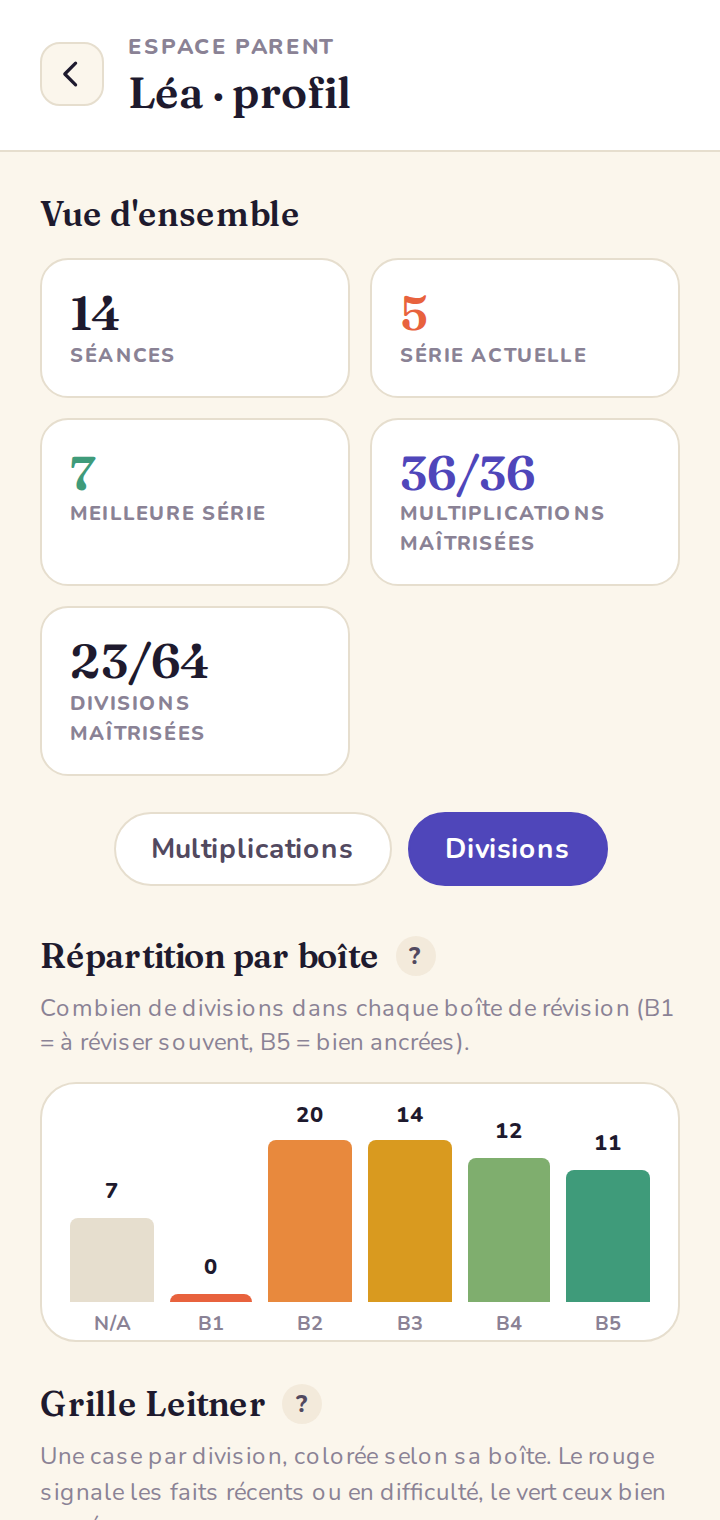
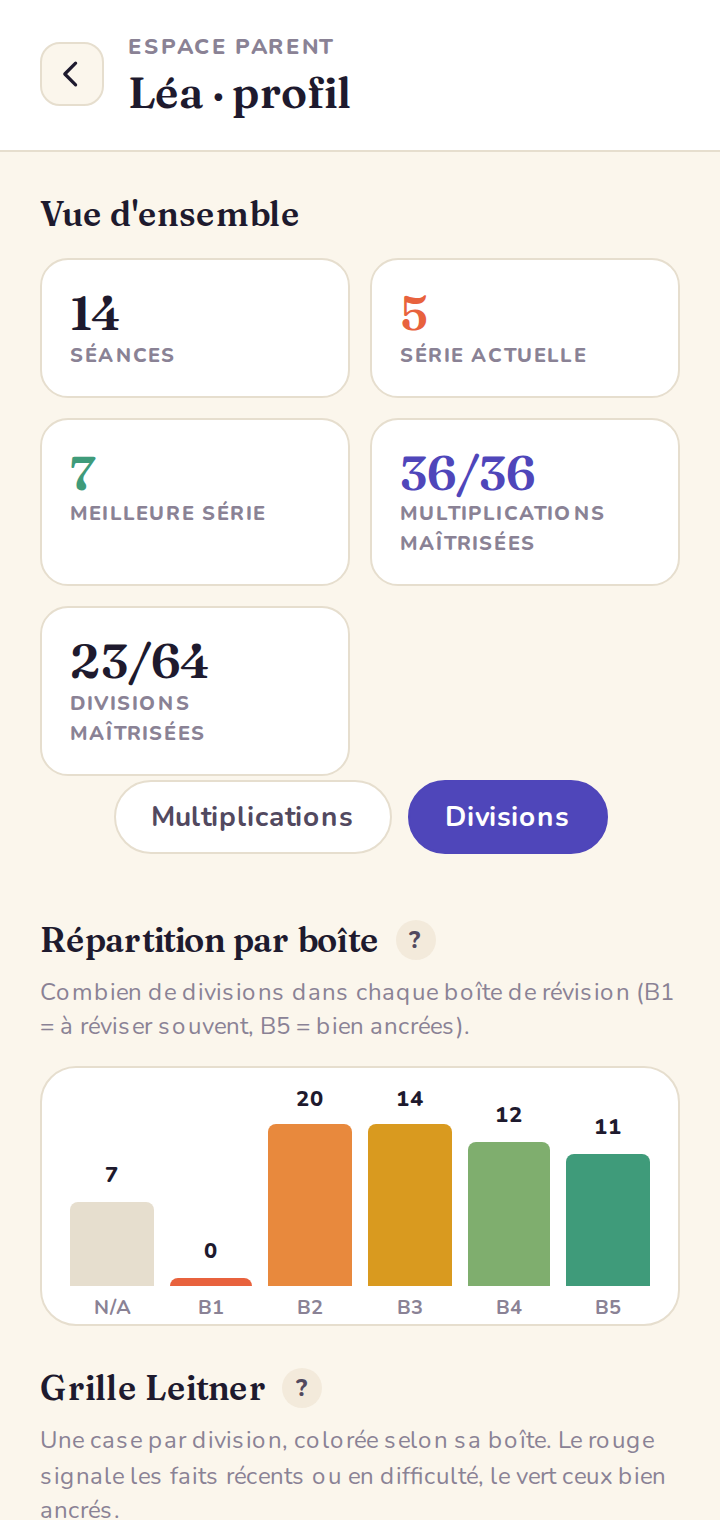
preview: claude-parent-dashboard-division @ 3175ded708ae540b9643395180d0553de9619bf6 f2abcea1a1fba69b99221907ac679d8dc247eb9f

diff --git a/previews/claude-parent-dashboard-division/styles.css b/previews/claude-parent-dashboard-division/styles.css
@@ -3057,36 +3057,6 @@ input, select, textarea {
   letter-spacing: 0.4px;
 }
 
-/* Sélecteur Multiplications / Divisions (gaté sur le déblocage niveau 2).
-   Mirroir du sélecteur côté enfant (ProgressScreen.css `.progress-tab`). */
-.parent-op-selector-section {
-  padding-bottom: 4px;
-}
-
-.parent-op-selector {
-  display: flex;
-  gap: 8px;
-  justify-content: center;
-}
-
-.parent-op-tab {
-  font-family: var(--sans);
-  font-size: 14px;
-  font-weight: 700;
-  padding: 8px 18px;
-  border-radius: 999px;
-  border: 1.5px solid var(--line);
-  background: var(--paper);
-  color: var(--ink-soft);
-  cursor: pointer;
-}
-
-.parent-op-tab.active {
-  background: var(--indigo);
-  border-color: var(--indigo);
-  color: #fff;
-}
-
 /* Marqueur ×/÷ devant chaque ligne de « Faits les plus difficiles » : permet
    d'identifier l'opération dans la liste unifiée mult+div. */
 .parent-hard-fact-kind {

diff --git a/previews/claude-parent-dashboard-division/src/lib/hardestFacts.js b/previews/claude-parent-dashboard-division/src/lib/hardestFacts.js
@@ -1,0 +1,3 @@
+import{getFactKey as m}from"./facts.js";import{getDivisionFactKey as b}from"./divisionFacts.js";function u(t,e){return t.filter(o=>!o.correct&&(e===null||o.date>=e)).length}function v(t,e,o){const n=t.sessionHistory,i=n.length>e?n[n.length-e].date:null,s=t.facts.filter(r=>r.introduced).map(r=>({kind:"mult",key:m(r.a,r.b),box:r.box,errorCount:u(r.history,i),a:r.a,b:r.b,product:r.product})),c=(t.divisionFacts??[]).filter(r=>r.introduced).map(r=>({kind:"div",key:b(r.dividend,r.divisor),box:r.box,errorCount:u(r.history,i),dividend:r.dividend,divisor:r.divisor,quotient:r.quotient}));return[...s,...c].sort((r,d)=>d.errorCount-r.errorCount||r.box-d.box).slice(0,o).filter(r=>r.errorCount>0)}export{v as getHardestFacts};
+
+//# sourceMappingURL=hardestFacts.js.map

diff --git a/previews/claude-parent-dashboard-division/sw.js b/previews/claude-parent-dashboard-division/sw.js
@@ -26,7 +26,7 @@
 // Les marqueurs de version, de base path et de liste d'assets sont
 // substitués par scripts/build.mjs.
 
-const CACHE = 'multiplix-' + "20260605162732"
+const CACHE = 'multiplix-' + "20260605163621"
 const BASE = "/multiplix/previews/claude-parent-dashboard-division/"
 const ASSETS = [
   "/multiplix/previews/claude-parent-dashboard-division/favicon.svg",
@@ -104,6 +104,7 @@ const ASSETS = [
   "/multiplix/previews/claude-parent-dashboard-division/src/lib/divisionStrategies.js",
   "/multiplix/previews/claude-parent-dashboard-division/src/lib/facts.js",
   "/multiplix/previews/claude-parent-dashboard-division/src/lib/feedback.js",
+  "/multiplix/previews/claude-parent-dashboard-division/src/lib/hardestFacts.js",
   "/multiplix/previews/claude-parent-dashboard-division/src/lib/install.js",
   "/multiplix/previews/claude-parent-dashboard-division/src/lib/leitner.js",
   "/multiplix/previews/claude-parent-dashboard-division/src/lib/micPreflight.js",

diff --git a/previews/claude-parent-dashboard-division/guide/index.html b/previews/claude-parent-dashboard-division/guide/index.html
@@ -463,7 +463,7 @@
           </figure>
 
           <figure class="shot">
-            <img src="screenshots/13b-parent-dashboard-division.png?v=b902fcdf" alt="Tableau de bord parent une fois la division débloquée : carte « Divisions maîtrisées », sélecteur ×/÷ sur l'histogramme et la grille, liste unifiée des faits les plus difficiles avec marqueur par opération." width="360" height="760" loading="lazy" />
+            <img src="screenshots/13b-parent-dashboard-division.png?v=1866d08d" alt="Tableau de bord parent une fois la division débloquée : carte « Divisions maîtrisées », sélecteur ×/÷ sur l'histogramme et la grille, liste unifiée des faits les plus difficiles avec marqueur par opération." width="360" height="760" loading="lazy" />
             <figcaption>Tableau de bord parent une fois la division débloquée : carte « Divisions maîtrisées », sélecteur ×/÷ sur l'histogramme et la grille, liste unifiée des faits les plus difficiles avec marqueur par opération.</figcaption>
           </figure>
 

diff --git a/previews/claude-parent-dashboard-division/src/components/LeitnerGrid.js b/previews/claude-parent-dashboard-division/src/components/LeitnerGrid.js
@@ -1,3 +1,3 @@
-import{jsx as t,jsxs as o}from"preact/jsx-runtime";import{useState as c,Fragment as m}from"react";import p from"./Modal.js";const s=[2,3,4,5,6,7,8,9];function g(l){return l.introduced?`box-${l.box}`:"box-0"}function u({operator:l,cellFor:d}){const[e,i]=c(null);return o("div",{className:"progress-grid-container",children:[o("div",{className:"progress-grid",children:[t("div",{className:"progress-grid-header progress-grid-corner",children:l}),s.map(r=>t("div",{className:"progress-grid-header",children:r},`col-${r}`)),s.map(r=>o(m,{children:[t("div",{className:"progress-grid-header",children:r}),s.map(n=>{const a=d(r,n);return t("button",{className:`progress-grid-cell ${g(a)} ${a.diagonal?"diagonal":""}`,onClick:()=>a.introduced&&i(a),"aria-label":a.ariaLabel},`${r}-${n}`)})]},r))]}),e&&o(p,{onClose:()=>i(null),className:"fact-detail",children:[t("h3",{className:"fact-detail-title",children:e.modal.title}),o("p",{className:"fact-detail-line",children:["Niveau :"," ",e.box===1?"En apprentissage":e.box===5?"Ma\xEEtris\xE9 !":`Bo\xEEte ${e.box}/5`]}),t("p",{className:"fact-detail-line",children:e.modal.totalAttempts>0?`${e.modal.correctCount}/${e.modal.totalAttempts} bonnes r\xE9ponses`:"Pas encore pratiqu\xE9"}),t("button",{className:"modal-close-btn",onClick:()=>i(null),children:"Fermer"})]})]})}export{u as default};
+import{jsx as r,jsxs as l}from"preact/jsx-runtime";import{useState as c,Fragment as m}from"react";import{boxLevelLabel as p}from"../lib/leitner.js";import g from"./Modal.js";const s=[2,3,4,5,6,7,8,9];function u(o){return o.introduced?`box-${o.box}`:"box-0"}function b({operator:o,cellFor:d}){const[t,i]=c(null);return l("div",{className:"progress-grid-container",children:[l("div",{className:"progress-grid",children:[r("div",{className:"progress-grid-header progress-grid-corner",children:o}),s.map(e=>r("div",{className:"progress-grid-header",children:e},`col-${e}`)),s.map(e=>l(m,{children:[r("div",{className:"progress-grid-header",children:e}),s.map(n=>{const a=d(e,n);return r("button",{className:`progress-grid-cell ${u(a)} ${a.diagonal?"diagonal":""}`,onClick:()=>a.introduced&&i(a),"aria-label":a.ariaLabel},`${e}-${n}`)})]},e))]}),t&&l(g,{onClose:()=>i(null),className:"fact-detail",children:[r("h3",{className:"fact-detail-title",children:t.modal.title}),l("p",{className:"fact-detail-line",children:["Niveau : ",p(t.box)]}),r("p",{className:"fact-detail-line",children:t.modal.totalAttempts>0?`${t.modal.correctCount}/${t.modal.totalAttempts} bonnes r\xE9ponses`:"Pas encore pratiqu\xE9"}),r("button",{className:"modal-close-btn",onClick:()=>i(null),children:"Fermer"})]})]})}export{b as default};
 
 //# sourceMappingURL=LeitnerGrid.js.map

diff --git a/previews/claude-parent-dashboard-division/src/components/MysteryGrid.js b/previews/claude-parent-dashboard-division/src/components/MysteryGrid.js
@@ -1,3 +1,3 @@
-import{jsx as e,jsxs as o}from"preact/jsx-runtime";import{useState as u}from"react";import b from"./DotGrid.js";const i=[2,3,4,5,6,7,8,9],v="/multiplix/previews/claude-parent-dashboard-division/";function p({theme:n,cellFor:y}){const[l,a]=u(null);return o("div",{className:"mystery-image-container",children:[e("div",{className:"mystery-image",children:e("div",{className:"mystery-cells",children:i.map((r,m)=>i.map((s,d)=>{const t=y(r,s),c=t.level>0?{backgroundImage:`url(${v}mystery/${n}/level-${t.level}.png)`,backgroundSize:"800% 800%",backgroundPosition:`${d/7*100}% ${m/7*100}%`}:void 0;return e("button",{className:`mystery-cell mystery-level-${t.level}`,style:c,onClick:()=>t.introduced&&a(t),"aria-label":t.ariaLabel},`${r}-${s}`)}))})}),l&&e("div",{className:"mystery-detail-overlay",onClick:()=>a(null),children:o("div",{className:"mystery-detail-card",onClick:r=>r.stopPropagation(),children:[e("h3",{children:l.detailHeading}),e(b,{a:l.gridA,b:l.gridB,animated:!1,size:"small"}),e("p",{className:"mystery-detail-box",children:l.box===5?"Ma\xEEtris\xE9 !":l.box===1?"En apprentissage":`Bo\xEEte ${l.box}/5`}),e("button",{className:"mystery-detail-close",onClick:()=>a(null),children:"Fermer"})]})})]})}export{p as default};
+import{jsx as e,jsxs as o}from"preact/jsx-runtime";import{useState as u}from"react";import{boxLevelLabel as b}from"../lib/leitner.js";import v from"./DotGrid.js";const i=[2,3,4,5,6,7,8,9],p="/multiplix/previews/claude-parent-dashboard-division/";function g({theme:n,cellFor:m}){const[t,a]=u(null);return o("div",{className:"mystery-image-container",children:[e("div",{className:"mystery-image",children:e("div",{className:"mystery-cells",children:i.map((r,y)=>i.map((s,d)=>{const l=m(r,s),c=l.level>0?{backgroundImage:`url(${p}mystery/${n}/level-${l.level}.png)`,backgroundSize:"800% 800%",backgroundPosition:`${d/7*100}% ${y/7*100}%`}:void 0;return e("button",{className:`mystery-cell mystery-level-${l.level}`,style:c,onClick:()=>l.introduced&&a(l),"aria-label":l.ariaLabel},`${r}-${s}`)}))})}),t&&e("div",{className:"mystery-detail-overlay",onClick:()=>a(null),children:o("div",{className:"mystery-detail-card",onClick:r=>r.stopPropagation(),children:[e("h3",{children:t.detailHeading}),e(v,{a:t.gridA,b:t.gridB,animated:!1,size:"small"}),e("p",{className:"mystery-detail-box",children:b(t.box)}),e("button",{className:"mystery-detail-close",onClick:()=>a(null),children:"Fermer"})]})})]})}export{g as default};
 
 //# sourceMappingURL=MysteryGrid.js.map

diff --git a/previews/claude-parent-dashboard-division/src/lib/feedback.js b/previews/claude-parent-dashboard-division/src/lib/feedback.js
@@ -1,3 +1,3 @@
-const r="https://cseyzitvqvyuabmenntb.supabase.co",a="sb_publishable_WKCgKA1DIyj8o1eG4_Pciw_ZoujAiqj",l=!!(r&&a);function u(t,e=!1){const n={app_version:"20260605162732",user_agent:navigator.userAgent,locale:navigator.language,viewport:{w:window.innerWidth,h:window.innerHeight}};if(t){const o=t.facts.filter(s=>s.box>=4).length,i=new Date(t.startDate).getTime(),c=Math.max(0,Math.floor((Date.now()-i)/864e5));if(n.stats={total_sessions:t.totalSessions,facts_mastered:o,facts_total:t.facts.length,current_streak:t.currentStreak,days_since_start:c},e){const{name:s,...m}=t;n.profile_snapshot=m}}return n}async function _(t){if(!l)throw new Error("Feedback d\xE9sactiv\xE9 (configuration manquante)");const e=await fetch(`${r}/rest/v1/feedback`,{method:"POST",headers:{apikey:a,Authorization:`Bearer ${a}`,"Content-Type":"application/json",Prefer:"return=minimal"},body:JSON.stringify({message:t.message,email:t.email&&t.email.trim()?t.email.trim():null,context:t.context})});if(!e.ok){const n=await e.text().catch(()=>"");throw new Error(n||`HTTP ${e.status}`)}}export{u as buildContext,l as feedbackEnabled,_ as submitFeedback};
+const r="https://cseyzitvqvyuabmenntb.supabase.co",a="sb_publishable_WKCgKA1DIyj8o1eG4_Pciw_ZoujAiqj",l=!!(r&&a);function u(t,e=!1){const n={app_version:"20260605163621",user_agent:navigator.userAgent,locale:navigator.language,viewport:{w:window.innerWidth,h:window.innerHeight}};if(t){const o=t.facts.filter(s=>s.box>=4).length,i=new Date(t.startDate).getTime(),c=Math.max(0,Math.floor((Date.now()-i)/864e5));if(n.stats={total_sessions:t.totalSessions,facts_mastered:o,facts_total:t.facts.length,current_streak:t.currentStreak,days_since_start:c},e){const{name:s,...m}=t;n.profile_snapshot=m}}return n}async function _(t){if(!l)throw new Error("Feedback d\xE9sactiv\xE9 (configuration manquante)");const e=await fetch(`${r}/rest/v1/feedback`,{method:"POST",headers:{apikey:a,Authorization:`Bearer ${a}`,"Content-Type":"application/json",Prefer:"return=minimal"},body:JSON.stringify({message:t.message,email:t.email&&t.email.trim()?t.email.trim():null,context:t.context})});if(!e.ok){const n=await e.text().catch(()=>"");throw new Error(n||`HTTP ${e.status}`)}}export{u as buildContext,l as feedbackEnabled,_ as submitFeedback};
 
 //# sourceMappingURL=feedback.js.map

diff --git a/previews/claude-parent-dashboard-division/src/lib/leitner.js b/previews/claude-parent-dashboard-division/src/lib/leitner.js
@@ -1,3 +1,3 @@
-import{BOX_INTERVALS as a,FAST_THRESHOLD_MS as c}from"../types.js";import{shuffle as u}from"./utils.js";function d(e,t){const n=new Date(e);return n.setDate(n.getDate()+t),n.toISOString().slice(0,10)}function x(e,t){const n=a[e];return d(t,n)}function g(e,t){return e.nextDue?e.nextDue<=t:!0}function h(e,t,n,r,o,l=c[o]){const b={date:r,correct:t,responseTimeMs:n,answeredWith:null},i=[...e.history,b].slice(-30);if(!t)return{...e,box:1,lastSeen:r,nextDue:x(1,r),history:i};if(n<l){const s=Math.min(e.box+1,5);return{...e,box:s,lastSeen:r,nextDue:x(s,r),history:i}}return{...e,lastSeen:r,nextDue:x(e.box,r),history:i}}const p=2;function B(e){const t=e.filter(n=>n.introduced);return t.length===0||e.length-t.length<=p?!0:t.every(n=>n.box>=2)}function S(e,t){return e===2||t===2?1:e===5||t===5?2:e===9||t===9?3:e===t?4:5}function T(e){return[...u(e.filter(t=>t.box===1)),...u(e.filter(t=>t.box===2||t.box===3)),...u(e.filter(t=>t.box===4||t.box===5))]}function v(e,t,n){return u(e.filter(r=>r.introduced&&!t(r))).sort((r,o)=>r.box-o.box||r.nextDue.localeCompare(o.nextDue)).slice(0,n)}export{d as addDays,x as computeNextDue,g as isDue,v as pickBonusReviewFacts,T as prioritizeByBoxLevel,h as processAnswer,B as shouldIntroduceNew,S as vanDeWalleStage};
+import{BOX_INTERVALS as a,FAST_THRESHOLD_MS as c}from"../types.js";import{shuffle as u}from"./utils.js";function p(e,t){const n=new Date(e);return n.setDate(n.getDate()+t),n.toISOString().slice(0,10)}function x(e,t){const n=a[e];return p(t,n)}function h(e,t){return e.nextDue?e.nextDue<=t:!0}function D(e,t,n,r,o,l=c[o]){const b={date:r,correct:t,responseTimeMs:n,answeredWith:null},i=[...e.history,b].slice(-30);if(!t)return{...e,box:1,lastSeen:r,nextDue:x(1,r),history:i};if(n<l){const s=Math.min(e.box+1,5);return{...e,box:s,lastSeen:r,nextDue:x(s,r),history:i}}return{...e,lastSeen:r,nextDue:x(e.box,r),history:i}}const d=2;function v(e){const t=e.filter(n=>n.introduced);return t.length===0||e.length-t.length<=d?!0:t.every(n=>n.box>=2)}const f=4;function L(e){return e.filter(t=>t.box>=f).length}function S(e){return e===5?"Ma\xEEtris\xE9 !":e===1?"En apprentissage":`Bo\xEEte ${e}/5`}function T(e,t){return e===2||t===2?1:e===5||t===5?2:e===9||t===9?3:e===t?4:5}function y(e){return[...u(e.filter(t=>t.box===1)),...u(e.filter(t=>t.box===2||t.box===3)),...u(e.filter(t=>t.box===4||t.box===5))]}function A(e,t,n){return u(e.filter(r=>r.introduced&&!t(r))).sort((r,o)=>r.box-o.box||r.nextDue.localeCompare(o.nextDue)).slice(0,n)}export{f as MASTERY_BOX,p as addDays,S as boxLevelLabel,x as computeNextDue,L as countMastered,h as isDue,A as pickBonusReviewFacts,y as prioritizeByBoxLevel,D as processAnswer,v as shouldIntroduceNew,T as vanDeWalleStage};
 
 //# sourceMappingURL=leitner.js.map

diff --git a/previews/claude-parent-dashboard-division/src/screens/ParentDashboard.js b/previews/claude-parent-dashboard-division/src/screens/ParentDashboard.js
@@ -1,3 +1,3 @@
-import{Fragment as se,jsx as e,jsxs as t}from"preact/jsx-runtime";import{useState as p,useMemo as u}from"react";import{getFactKey as G}from"../lib/facts.js";import{getDivisionFactKey as W}from"../lib/divisionFacts.js";import{isDivisionUnlocked as z}from"../lib/badges.js";import{getActiveStreak as J}from"../lib/streak.js";import{todayISO as K}from"../lib/utils.js";import j from"../components/ProgressGrid.js";import Q from"../components/DivisionProgressGrid.js";import X from"../components/BackChevron.js";import Z from"../components/FeedbackModal.js";import w from"../components/EvolutionChart.js";import ee from"../components/NotificationSettings.js";const g=10,ae=20;function te({profile:i,onBack:F,onExport:D,onImport:E,onResetProfile:$,onShowPrivacy:B,onShowChangelog:P}){const[y,x]=p(!1),[b,k]=p(""),[H,C]=p(!1),[L,f]=p(!1),m=u(()=>z(i),[i]),l=u(()=>i.divisionFacts??[],[i.divisionFacts]),[R,S]=p(m?"div":"mult"),r=m&&R==="div",A=async()=>{const a=window.location.origin+"/multiplix/previews/claude-parent-dashboard-division/";if(navigator.share){try{await navigator.share({title:"Multiplix",text:"Multiplix \u2014 pour apprendre les tables de multiplication.",url:a})}catch{}return}try{await navigator.clipboard.writeText(a),f(!0),setTimeout(()=>f(!1),2e3)}catch{}},{boxCounts:I,maxBoxCount:_,hardFacts:M}=u(()=>{const a=[0,0,0,0,0,0],n=r?l:i.facts;for(const s of n)s.introduced?a[s.box]++:a[0]++;const o=i.sessionHistory,h=o.length>g?o[o.length-g].date:null,c=s=>s.filter(v=>!v.correct&&(h===null||v.date>=h)).length,N=i.facts.filter(s=>s.introduced).map(s=>({kind:"mult",a:s.a,b:s.b,product:s.product,box:s.box,key:G(s.a,s.b),errorCount:c(s.history)})),V=l.filter(s=>s.introduced).map(s=>({kind:"div",dividend:s.dividend,divisor:s.divisor,quotient:s.quotient,box:s.box,key:W(s.dividend,s.divisor),errorCount:c(s.history)})),Y=[...N,...V].sort((s,v)=>v.errorCount-s.errorCount||s.box-v.box).slice(0,5).filter(s=>s.errorCount>0);return{boxCounts:a,maxBoxCount:Math.max(...a,1),hardFacts:Y}},[i.facts,l,i.sessionHistory,r]),T=u(()=>[...i.sessionHistory].reverse().slice(0,10),[i.sessionHistory]),d=u(()=>{const a=i.sessionHistory.slice(-ae);if(a.length<2)return null;const n=[],o=[];for(const c of a){const N=new Date(c.date).toLocaleDateString("fr-FR",{day:"numeric",month:"short"});n.push({date:N,value:Math.round(c.correctCount/c.questionsCount*100)}),o.push({date:N,value:c.averageTimeMs/1e3})}const h=Math.max(Math.ceil(Math.max(...o.map(c=>c.value))),4);return{accuracy:n,time:o,timeYMax:h}},[i.sessionHistory]),U=["var(--box-gray)","var(--box-red)","var(--box-orange)","var(--box-yellow)","var(--box-lightgreen)","var(--box-green)"],q=["N/A","B1","B2","B3","B4","B5"],O=()=>{b.trim()&&(E(b.trim()),x(!1),k(""))};return t("div",{className:"parent-dashboard",children:[t("div",{className:"parent-header",children:[e("button",{className:"parent-back-btn",onClick:F,"aria-label":"Retour",children:e(X,{})}),t("div",{className:"parent-header-titles",children:[e("div",{className:"parent-eyebrow",children:"Espace parent"}),t("div",{className:"parent-title",children:[i.name," \xB7 ","profil"]})]})]}),t("div",{className:"parent-section",children:[e("h3",{children:"Vue d'ensemble"}),t("div",{className:"parent-stats-grid",children:[t("div",{className:"parent-stat-card",children:[e("div",{className:"parent-stat-value",children:i.totalSessions}),e("div",{className:"parent-stat-label",children:"S\xE9ances"})]}),t("div",{className:"parent-stat-card",children:[e("div",{className:"parent-stat-value",children:J(i,K())}),e("div",{className:"parent-stat-label",children:"S\xE9rie actuelle"})]}),t("div",{className:"parent-stat-card",children:[e("div",{className:"parent-stat-value",children:i.longestStreak}),e("div",{className:"parent-stat-label",children:"Meilleure s\xE9rie"})]}),t("div",{className:"parent-stat-card",children:[t("div",{className:"parent-stat-value",children:[i.facts.filter(a=>a.box>=4).length,"/",i.facts.length]}),e("div",{className:"parent-stat-label",children:m?"Multiplications ma\xEEtris\xE9es":"Faits ma\xEEtris\xE9s"})]}),m&&t("div",{className:"parent-stat-card",children:[t("div",{className:"parent-stat-value",children:[l.filter(a=>a.box>=4).length,"/",l.length]}),e("div",{className:"parent-stat-label",children:"Divisions ma\xEEtris\xE9es"})]})]})]}),m&&e("div",{className:"parent-section parent-op-selector-section",children:t("div",{className:"parent-op-selector",role:"tablist","aria-label":"Op\xE9ration",children:[e("button",{role:"tab","aria-selected":!r,className:`parent-op-tab ${r?"":"active"}`,onClick:()=>S("mult"),children:"Multiplications"}),e("button",{role:"tab","aria-selected":r,className:`parent-op-tab ${r?"active":""}`,onClick:()=>S("div"),children:"Divisions"})]})}),t("div",{className:"parent-section",children:[t("h3",{children:["R\xE9partition par bo\xEEte",e("a",{className:"parent-section-help",href:"/multiplix/previews/claude-parent-dashboard-division/guide/#principes",target:"_blank",rel:"noopener noreferrer","aria-label":"En savoir plus sur le syst\xE8me de Leitner",children:"?"})]}),t("p",{className:"parent-section-subtitle",children:["Combien de ",r?"divisions":"multiplications"," dans chaque bo\xEEte de r\xE9vision (B1 = \xE0 r\xE9viser souvent, B5 = bien ancr\xE9es)."]}),e("div",{className:"parent-histogram",children:I.map((a,n)=>t("div",{className:"parent-histogram-bar",children:[e("div",{className:"parent-histogram-count",children:a}),e("div",{className:"parent-histogram-fill",style:{height:`${a/_*100}%`,background:U[n]}}),e("div",{className:"parent-histogram-label",children:q[n]})]},n))})]}),t("div",{className:"parent-section",children:[t("h3",{children:["Grille Leitner",e("a",{className:"parent-section-help",href:"/multiplix/previews/claude-parent-dashboard-division/guide/#principes",target:"_blank",rel:"noopener noreferrer","aria-label":"En savoir plus sur le syst\xE8me de Leitner",children:"?"})]}),t("p",{className:"parent-section-subtitle",children:["Une case par ",r?"division":"multiplication",", color\xE9e selon sa bo\xEEte. Le rouge signale les faits r\xE9cents ou en difficult\xE9, le vert ceux bien ancr\xE9s."]}),r?e(Q,{facts:l}):e(j,{facts:i.facts})]}),d&&t(se,{children:[t("div",{className:"parent-section",children:[e("h3",{children:"Taux de bonnes r\xE9ponses"}),e(w,{data:d.accuracy,yMin:0,yMax:100,yTicks:[0,25,50,75,100],formatY:a=>`${a}%`,color:"var(--primary)"})]}),t("div",{className:"parent-section",children:[e("h3",{children:"Temps de r\xE9ponse moyen"}),e(w,{data:d.time,yMin:0,yMax:d.timeYMax,yTicks:[0,d.timeYMax/2,d.timeYMax],formatY:a=>`${a.toFixed(1)}s`,color:"var(--sage)"})]})]}),M.length>0&&t("div",{className:"parent-section",children:[e("h3",{children:"Faits les plus difficiles"}),t("p",{className:"parent-section-subtitle",children:["Sur les ",g," derni\xE8res s\xE9ances."]}),e("div",{className:"parent-hard-facts",children:M.map(a=>t("div",{className:"parent-hard-fact",children:[e("span",{className:`parent-hard-fact-kind parent-hard-fact-kind--${a.kind}`,"aria-label":a.kind==="div"?"Division":"Multiplication",children:a.kind==="div"?"\xF7":"\xD7"}),e("span",{className:"parent-hard-fact-name",children:a.kind==="div"?`${a.dividend} \xF7 ${a.divisor} = ${a.quotient}`:`${a.a} \xD7 ${a.b} = ${a.product}`}),t("span",{className:"parent-hard-fact-errors",children:[a.errorCount," erreur",a.errorCount>1?"s":""," | Bo\xEEte"," ",a.box]})]},`${a.kind}-${a.key}`))})]}),i.sessionHistory.length>0&&t("div",{className:"parent-section",children:[e("h3",{children:"Historique des s\xE9ances"}),e("div",{className:"parent-session-history",children:T.map(a=>{const n=new Date(a.date).toLocaleDateString("fr-FR",{weekday:"short",day:"numeric",month:"long"}),o=(a.averageTimeMs/1e3).toFixed(1);return t("div",{className:"parent-session-row",children:[e("span",{className:"parent-session-date",children:n}),t("span",{className:"parent-session-score",children:[a.correctCount,"/",a.questionsCount]}),t("span",{className:"parent-session-time",children:[o,"s"]})]},a.date)})})]}),t("div",{className:"parent-section",children:[e("h3",{children:"Sauvegarde"}),t("div",{className:"parent-actions",children:[e("button",{className:"parent-action-btn",onClick:D,children:"Exporter"}),e("button",{className:"parent-action-btn",onClick:()=>x(!y),children:"Importer"})]})]}),t("div",{className:"parent-section",children:[e("h3",{children:"Aide & retours"}),t("div",{className:"parent-actions",children:[e("a",{className:"parent-action-btn",href:"/multiplix/previews/claude-parent-dashboard-division/guide/",target:"_blank",rel:"noopener noreferrer",children:"Guide utilisateur"}),e("button",{className:"parent-action-btn",onClick:()=>C(!0),children:"Envoyer un avis"})]})]}),e(ee,{}),t("div",{className:"parent-section",children:[e("h3",{children:"Partager Multiplix"}),e("p",{className:"parent-section-subtitle",children:"Envoyez le lien de l'app \xE0 un autre parent."}),e("div",{className:"parent-actions",children:e("button",{className:"parent-action-btn",onClick:A,children:L?"Lien copi\xE9 \u2713":"Partager l\u2019app"})})]}),t("div",{className:"parent-section",children:[e("h3",{children:"\xC0 propos"}),t("div",{className:"parent-actions",children:[e("button",{className:"parent-action-btn",onClick:P,children:"Nouveaut\xE9s"}),e("button",{className:"parent-action-btn",onClick:B,children:"Confidentialit\xE9"})]})]}),t("div",{className:"parent-section",children:[e("h3",{children:"R\xE9initialisation"}),e("p",{className:"parent-section-subtitle",children:"Efface le profil et relance le test de placement. Utile pour recommencer \xE0 z\xE9ro ou changer d'enfant."}),e("div",{className:"parent-actions",children:e("button",{className:"parent-action-btn parent-action-btn--danger",onClick:$,children:"R\xE9initialiser le profil"})})]}),y&&t("div",{className:"parent-import-area",children:[e("textarea",{className:"parent-import-textarea",placeholder:"Collez le JSON ici...",value:b,onChange:a=>k(a.target.value)}),e("button",{className:"parent-import-confirm",onClick:O,disabled:!b.trim(),children:"Confirmer l'import"})]}),H&&e(Z,{profile:i,onClose:()=>C(!1)}),t("div",{className:"parent-version","aria-label":"Version de l'app",children:["v","20260605162732"]})]})}export{te as default};
+import{Fragment as Z,jsx as a,jsxs as e}from"preact/jsx-runtime";import{useState as p,useMemo as l}from"react";import{isDivisionUnlocked as V}from"../lib/badges.js";import{countMastered as x}from"../lib/leitner.js";import{getHardestFacts as Y}from"../lib/hardestFacts.js";import{getActiveStreak as q}from"../lib/streak.js";import{todayISO as G}from"../lib/utils.js";import W from"../components/ProgressGrid.js";import z from"../components/DivisionProgressGrid.js";import J from"../components/BackChevron.js";import j from"../components/FeedbackModal.js";import C from"../components/EvolutionChart.js";import K from"../components/NotificationSettings.js";const S=10,Q=20;function X({profile:s,onBack:M,onExport:w,onImport:D,onResetProfile:F,onShowPrivacy:$,onShowChangelog:B}){const[u,b]=p(!1),[v,h]=p(""),[E,N]=p(!1),[P,g]=p(!1),d=l(()=>V(s),[s]),m=l(()=>s.divisionFacts??[],[s.divisionFacts]),[L,y]=p(d?"div":"mult"),r=d&&L==="div",R=async()=>{const t=window.location.origin+"/multiplix/previews/claude-parent-dashboard-division/";if(navigator.share){try{await navigator.share({title:"Multiplix",text:"Multiplix \u2014 pour apprendre les tables de multiplication.",url:t})}catch{}return}try{await navigator.clipboard.writeText(t),g(!0),setTimeout(()=>g(!1),2e3)}catch{}},{boxCounts:A,maxBoxCount:I}=l(()=>{const t=[0,0,0,0,0,0],i=r?m:s.facts;for(const n of i)n.introduced?t[n.box]++:t[0]++;return{boxCounts:t,maxBoxCount:Math.max(...t,1)}},[s.facts,m,r]),f=l(()=>Y(s,S,5),[s]),_=l(()=>[...s.sessionHistory].reverse().slice(0,10),[s.sessionHistory]),o=l(()=>{const t=s.sessionHistory.slice(-Q);if(t.length<2)return null;const i=[],n=[];for(const c of t){const k=new Date(c.date).toLocaleDateString("fr-FR",{day:"numeric",month:"short"});i.push({date:k,value:Math.round(c.correctCount/c.questionsCount*100)}),n.push({date:k,value:c.averageTimeMs/1e3})}const O=Math.max(Math.ceil(Math.max(...n.map(c=>c.value))),4);return{accuracy:i,time:n,timeYMax:O}},[s.sessionHistory]),T=["var(--box-gray)","var(--box-red)","var(--box-orange)","var(--box-yellow)","var(--box-lightgreen)","var(--box-green)"],U=["N/A","B1","B2","B3","B4","B5"],H=()=>{v.trim()&&(D(v.trim()),b(!1),h(""))};return e("div",{className:"parent-dashboard",children:[e("div",{className:"parent-header",children:[a("button",{className:"parent-back-btn",onClick:M,"aria-label":"Retour",children:a(J,{})}),e("div",{className:"parent-header-titles",children:[a("div",{className:"parent-eyebrow",children:"Espace parent"}),e("div",{className:"parent-title",children:[s.name," \xB7 ","profil"]})]})]}),e("div",{className:"parent-section",children:[a("h3",{children:"Vue d'ensemble"}),e("div",{className:"parent-stats-grid",children:[e("div",{className:"parent-stat-card",children:[a("div",{className:"parent-stat-value",children:s.totalSessions}),a("div",{className:"parent-stat-label",children:"S\xE9ances"})]}),e("div",{className:"parent-stat-card",children:[a("div",{className:"parent-stat-value",children:q(s,G())}),a("div",{className:"parent-stat-label",children:"S\xE9rie actuelle"})]}),e("div",{className:"parent-stat-card",children:[a("div",{className:"parent-stat-value",children:s.longestStreak}),a("div",{className:"parent-stat-label",children:"Meilleure s\xE9rie"})]}),e("div",{className:"parent-stat-card",children:[e("div",{className:"parent-stat-value",children:[x(s.facts),"/",s.facts.length]}),a("div",{className:"parent-stat-label",children:d?"Multiplications ma\xEEtris\xE9es":"Faits ma\xEEtris\xE9s"})]}),d&&e("div",{className:"parent-stat-card",children:[e("div",{className:"parent-stat-value",children:[x(m),"/",m.length]}),a("div",{className:"parent-stat-label",children:"Divisions ma\xEEtris\xE9es"})]})]})]}),d&&e("div",{className:"progress-tabs",role:"tablist","aria-label":"Op\xE9ration",children:[a("button",{type:"button",className:`progress-tab ${r?"":"active"}`,onClick:()=>y("mult"),children:"Multiplications"}),a("button",{type:"button",className:`progress-tab ${r?"active":""}`,onClick:()=>y("div"),children:"Divisions"})]}),e("div",{className:"parent-section",children:[e("h3",{children:["R\xE9partition par bo\xEEte",a("a",{className:"parent-section-help",href:"/multiplix/previews/claude-parent-dashboard-division/guide/#principes",target:"_blank",rel:"noopener noreferrer","aria-label":"En savoir plus sur le syst\xE8me de Leitner",children:"?"})]}),e("p",{className:"parent-section-subtitle",children:["Combien de ",r?"divisions":"multiplications"," dans chaque bo\xEEte de r\xE9vision (B1 = \xE0 r\xE9viser souvent, B5 = bien ancr\xE9es)."]}),a("div",{className:"parent-histogram",children:A.map((t,i)=>e("div",{className:"parent-histogram-bar",children:[a("div",{className:"parent-histogram-count",children:t}),a("div",{className:"parent-histogram-fill",style:{height:`${t/I*100}%`,background:T[i]}}),a("div",{className:"parent-histogram-label",children:U[i]})]},i))})]}),e("div",{className:"parent-section",children:[e("h3",{children:["Grille Leitner",a("a",{className:"parent-section-help",href:"/multiplix/previews/claude-parent-dashboard-division/guide/#principes",target:"_blank",rel:"noopener noreferrer","aria-label":"En savoir plus sur le syst\xE8me de Leitner",children:"?"})]}),e("p",{className:"parent-section-subtitle",children:["Une case par ",r?"division":"multiplication",", color\xE9e selon sa bo\xEEte. Le rouge signale les faits r\xE9cents ou en difficult\xE9, le vert ceux bien ancr\xE9s."]}),r?a(z,{facts:m}):a(W,{facts:s.facts})]}),o&&e(Z,{children:[e("div",{className:"parent-section",children:[a("h3",{children:"Taux de bonnes r\xE9ponses"}),a(C,{data:o.accuracy,yMin:0,yMax:100,yTicks:[0,25,50,75,100],formatY:t=>`${t}%`,color:"var(--primary)"})]}),e("div",{className:"parent-section",children:[a("h3",{children:"Temps de r\xE9ponse moyen"}),a(C,{data:o.time,yMin:0,yMax:o.timeYMax,yTicks:[0,o.timeYMax/2,o.timeYMax],formatY:t=>`${t.toFixed(1)}s`,color:"var(--sage)"})]})]}),f.length>0&&e("div",{className:"parent-section",children:[a("h3",{children:"Faits les plus difficiles"}),e("p",{className:"parent-section-subtitle",children:["Sur les ",S," derni\xE8res s\xE9ances."]}),a("div",{className:"parent-hard-facts",children:f.map(t=>e("div",{className:"parent-hard-fact",children:[a("span",{className:`parent-hard-fact-kind parent-hard-fact-kind--${t.kind}`,"aria-label":t.kind==="div"?"Division":"Multiplication",children:t.kind==="div"?"\xF7":"\xD7"}),a("span",{className:"parent-hard-fact-name",children:t.kind==="div"?`${t.dividend} \xF7 ${t.divisor} = ${t.quotient}`:`${t.a} \xD7 ${t.b} = ${t.product}`}),e("span",{className:"parent-hard-fact-errors",children:[t.errorCount," erreur",t.errorCount>1?"s":""," | Bo\xEEte"," ",t.box]})]},`${t.kind}-${t.key}`))})]}),s.sessionHistory.length>0&&e("div",{className:"parent-section",children:[a("h3",{children:"Historique des s\xE9ances"}),a("div",{className:"parent-session-history",children:_.map(t=>{const i=new Date(t.date).toLocaleDateString("fr-FR",{weekday:"short",day:"numeric",month:"long"}),n=(t.averageTimeMs/1e3).toFixed(1);return e("div",{className:"parent-session-row",children:[a("span",{className:"parent-session-date",children:i}),e("span",{className:"parent-session-score",children:[t.correctCount,"/",t.questionsCount]}),e("span",{className:"parent-session-time",children:[n,"s"]})]},t.date)})})]}),e("div",{className:"parent-section",children:[a("h3",{children:"Sauvegarde"}),e("div",{className:"parent-actions",children:[a("button",{className:"parent-action-btn",onClick:w,children:"Exporter"}),a("button",{className:"parent-action-btn",onClick:()=>b(!u),children:"Importer"})]})]}),e("div",{className:"parent-section",children:[a("h3",{children:"Aide & retours"}),e("div",{className:"parent-actions",children:[a("a",{className:"parent-action-btn",href:"/multiplix/previews/claude-parent-dashboard-division/guide/",target:"_blank",rel:"noopener noreferrer",children:"Guide utilisateur"}),a("button",{className:"parent-action-btn",onClick:()=>N(!0),children:"Envoyer un avis"})]})]}),a(K,{}),e("div",{className:"parent-section",children:[a("h3",{children:"Partager Multiplix"}),a("p",{className:"parent-section-subtitle",children:"Envoyez le lien de l'app \xE0 un autre parent."}),a("div",{className:"parent-actions",children:a("button",{className:"parent-action-btn",onClick:R,children:P?"Lien copi\xE9 \u2713":"Partager l\u2019app"})})]}),e("div",{className:"parent-section",children:[a("h3",{children:"\xC0 propos"}),e("div",{className:"parent-actions",children:[a("button",{className:"parent-action-btn",onClick:B,children:"Nouveaut\xE9s"}),a("button",{className:"parent-action-btn",onClick:$,children:"Confidentialit\xE9"})]})]}),e("div",{className:"parent-section",children:[a("h3",{children:"R\xE9initialisation"}),a("p",{className:"parent-section-subtitle",children:"Efface le profil et relance le test de placement. Utile pour recommencer \xE0 z\xE9ro ou changer d'enfant."}),a("div",{className:"parent-actions",children:a("button",{className:"parent-action-btn parent-action-btn--danger",onClick:F,children:"R\xE9initialiser le profil"})})]}),u&&e("div",{className:"parent-import-area",children:[a("textarea",{className:"parent-import-textarea",placeholder:"Collez le JSON ici...",value:v,onChange:t=>h(t.target.value)}),a("button",{className:"parent-import-confirm",onClick:H,disabled:!v.trim(),children:"Confirmer l'import"})]}),E&&a(j,{profile:s,onClose:()=>N(!1)}),e("div",{className:"parent-version","aria-label":"Version de l'app",children:["v","20260605163621"]})]})}export{X as default};
 
 //# sourceMappingURL=ParentDashboard.js.map